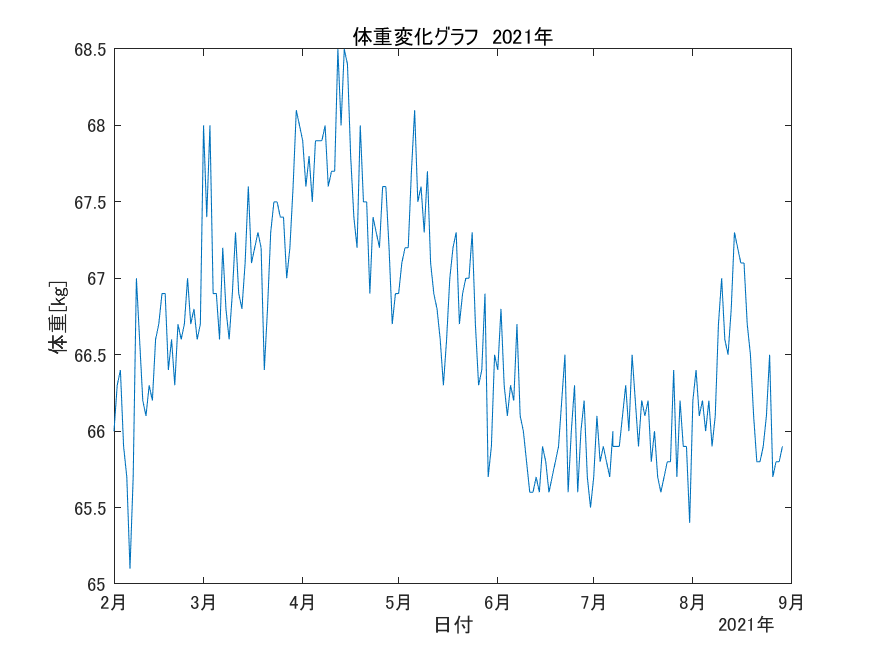
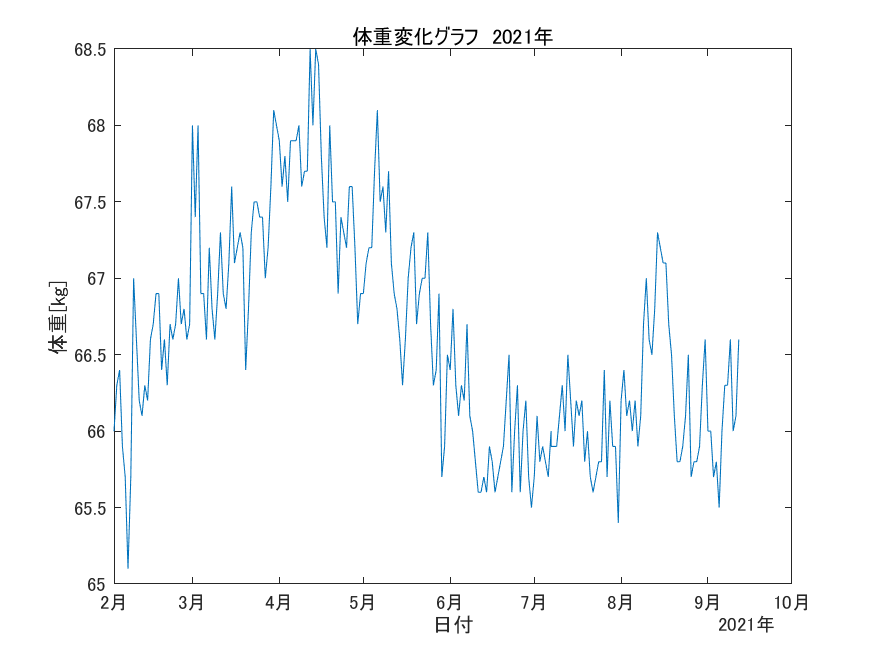
Add weight data

diff --git a/MATLAB_Octave/WeightTable/draw_boxplot.m b/MATLAB_Octave/WeightTable/draw_boxplot.m
@@ -4,18 +4,26 @@ rng('default')
 
 % 体重リストを読み込む
 T2101 = readtable('WeightListJan2021.csv');
+T2106 = readtable('WeightListJun2021.csv');
 T2107 = readtable('WeightListJul2021.csv');
 T2108 = readtable('WeightListAug2021.csv');
-x = [T2101.Weight; T2107.Weight; T2108.Weight];
+T2109 = readtable('WeightListSep2021.csv');
+x = [T2101.Weight; T2106.Weight; T2107.Weight; T2108.Weight; T2109.Weight];
 
 % グループの作成
-g0 = repmat({'Jan2021'},39,1);
-g1 = repmat({'Jul2021'},31,1);
-g2 = repmat({'Aug2021'},29,1);
-g = [g0; g1; g2];
+% 2番目の引数には対象データの行数を記入（都度更新必要）
+g2101 = repmat({'Jan2021'},39,1);
+g2106 = repmat({'Jun2021'},30,1);
+g2107 = repmat({'Jul2021'},31,1);
+g2108 = repmat({'Aug2021'},31,1);
+g2109 = repmat({'Sep2021'},12,1);
+g = [g2101; g2106; g2107; g2108; g2109];
 
 % 箱ひげ図の表示
 boxplot(x,g)
+title('月ごとの体重')
+xlabel('年月')
+ylabel('体重[kg]')
 
 % PNGに保存
 saveas(gcf, 'MonthlyWeightBoxplot.png')
